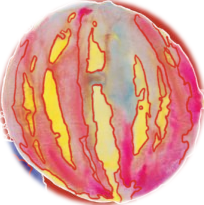
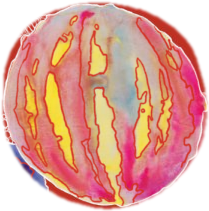
Refine fruit video play button

diff --git a/assets/style.css b/assets/style.css
@@ -1747,7 +1747,7 @@ body.home .video-section { gap: 24px; padding-block: 0 var(--home-block-gap); }
 .video-section__play img, .video-section__video { display: block; width: 100%; height: auto; }
 .video-section__play[hidden], .video-section__video[hidden] { display: none; }
 .video-section__icon { position: absolute; left: 50%; top: 50%; width: 60px; height: 60px; border-radius: 50%; background: rgb(0 0 0 / .55); transform: translate(-50%, -50%); }
-.video-section__icon::after { content: ''; position: absolute; top: 50%; left: 53%; transform: translate(-50%, -50%); border-top: 11px solid transparent; border-bottom: 11px solid transparent; border-left: 17px solid white; }
+.video-section__icon::after { content: ''; position: absolute; top: 50%; left: 53%; transform: translate(-50%, -50%); border-top: 17px solid transparent; border-bottom: 17px solid transparent; border-left: 26px solid white; }
 .video-section__play:focus-visible { outline: 2px solid currentColor; outline-offset: 4px; }
 
 /* 動画は再生マークだけを表示する。 */
@@ -1755,7 +1755,7 @@ body.home .video-section { gap: 24px; padding-block: 0 var(--home-block-gap); }
 .video-section__play { width: 60px; height: 60px; color: inherit; }
 .video-section__icon { background: transparent; border: 1px solid currentColor; }
 .video-section__icon::after { border-left-color: currentColor; }
-.video-section__play:hover .video-section__icon { background: rgb(var(--paper-rgb)); color: var(--c-bg); }
+.video-section__play:hover .video-section__icon { color: white; }
 
 /* 動画のサムネイルと実の再生ボタンを切り替える。 */
 .video-section__player { width: min(320px, 100%); }
@@ -1764,7 +1764,7 @@ body.home .video-section { gap: 24px; padding-block: 0 var(--home-block-gap); }
 html[data-video-style="fruit"] .video-section__player { width: min(160px, 100%); }
 html[data-video-style="fruit"] .video-section__thumb,
 html[data-video-style="thumbnail"] .video-section__fruit { display: none; }
-.video-section__icon { background: rgb(0 0 0 / .45); border: 0; color: white; }
+.video-section__icon { background: transparent; border: 0; color: var(--c-bg); }
 .video-section__icon::after { border-left-color: currentColor; }
 @media (min-width: 691px) {
   html[data-top-layout="1"] body.home .video-section__player { margin-left: calc(var(--layout1-label-col) + var(--layout1-column-gap)); max-width: calc(100% - var(--layout1-label-col) - var(--layout1-column-gap)); }

diff --git a/index.html b/index.html
@@ -20,7 +20,7 @@
 <link href="https://fonts.googleapis.com/css2?family=Work+Sans:ital,wght@0,400;0,600;0,700;1,600&family=Zen+Kaku+Gothic+New:wght@400;500;700&display=swap" rel="stylesheet">
 <link rel="stylesheet" href="https://cdnjs.cloudflare.com/ajax/libs/font-awesome/6.7.2/css/all.min.css" crossorigin="anonymous" referrerpolicy="no-referrer">
 <!-- ?v= はキャッシュよけ（CSS・JS を変えたら上げる。works/ のページは studio-embed/local/page.template.html） -->
-<link rel="stylesheet" href="assets/style.css?v=20261119j">
+<link rel="stylesheet" href="assets/style.css?v=20261119k">
 <!-- KV の文字（キャッチ・大学名・タイトル・MAU ロゴ）を最初の描画から隠しておく。
      表示は kv.js が KV のアニメーションに合わせて行う。kv.js が動かなかったときのため 10 秒で必ず出す -->
 <script>
@@ -1842,7 +1842,7 @@
     <div class="video-section__player">
       <button class="video-section__play" type="button" aria-label="動画を再生">
         <img class="video-section__thumb" src="assets/img/motion-thumbnail.jpg" alt="" loading="lazy" width="480" height="854">
-        <img class="video-section__fruit" src="assets/img/video-fruit.png" alt="" loading="lazy" width="204" height="205">
+        <img class="video-section__fruit" src="assets/img/video-fruit.png?v=20261119k" alt="" loading="lazy" width="209" height="211">
         <span class="video-section__icon" aria-hidden="true"></span>
       </button>
     </div>
